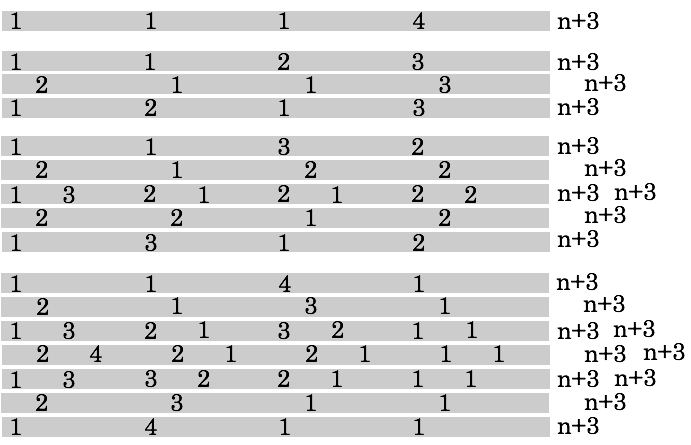
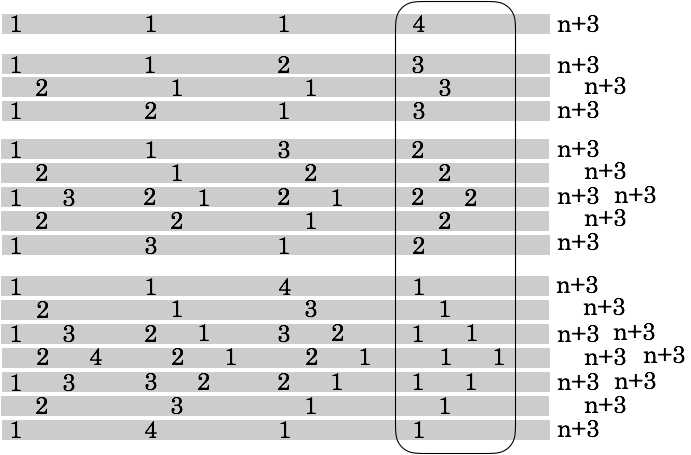
continuing App Thetrahedral

diff --git a/AppTetrahedral.tex b/AppTetrahedral.tex
@@ -1,28 +1,51 @@
 %version of 02-28-20
 
-\chapter{The hidden ordering of numbers}
+\chapter{The hidden beauty of numbers}
 \label{Appendix:Tetra}
 
 Our objective here is to develop the reasoning which leads to a proof...
 
-\section{Revisiting tirangular numbers}
+\section{Revisiting triangular numbers}
+
+The $n$ triangular number is equal to the sum of the $n$th first integers.
+It is denoted by $\Delta_n$.
+
+$\Delta_n =  \sum_{k=1}^{n} k$
+
+We proved in chapter~\ref{ch:Summation} the expression of $\Delta_n$ by two methods.
+\begin{itemize}
+\item the trick of Gauss that evidences an invariant (the sum of the $k$th term plus the $n-k+1$th one
+is equal to $n+1$. 
+\item using the Fubini's double counting principle, the $k$th term is represented by $k$ tokens.
+Putting two collections of tokens organized as triangles leads to a rectangle whose surface is equal to $n.(n+1)$.
+\end{itemize}
+We present below a figure that is an intermediate between both methods and that will serve as the basic principle for further investigations.
+Like for Gauss' trick, the sum of each row is an invariant (see the last column of Fig.~\ref{fig:Tetrahedral2}). 
 
 \begin{figure}[h]
 \begin{center}
         \includegraphics[scale=0.4]{FiguresArithmetic/appTetrahedral2}
-        \caption{Computing $\Theta_n$: basic triangle pattern.}
+        \caption{Computing $\Delta_n$: two copies of a basic triangle pattern.}
         \label{fig:Tetrahedral2}
 \end{center}
 \end{figure}
+$\Delta_n =  \sum_{k=1}^{n} k = \frac{1}{2}n.(n+1)$
+
 
 \section{Tetrahedral numbers}
 \label{sec:tetraedralNumbers}
 
-Prove the following expression
+We want here to compute:
+
+$\Theta_n =  \sum_{k=1}^{n} \Delta_k$
+\medskip
+
+A first method is to replace the $\Delta_k$ by their values $\frac{n.(n+1)}{2}$ and to determine the expression
+by arithmetic manipulations.
+We left this task to the readers, the expression is:
 
 $\Theta_n =  \sum_{k=1}^{n} \Delta_k = \frac{n.(n+1).(n+2)}{6}$
 \medskip
-
 
 This result can easily been proved by recurrence, we let the reader develop it. 
 We suggest to use the double counting Fubini's principle.
@@ -30,18 +53,26 @@ We suggest to use the double counting Fubini's principle.
 Following this way, you should write the previous expression of the tetrahedral number in a developed form 
 using a triangle shape as shown in Fig.~\ref{fig:Tetrahedral2}.
 
-and draw two copies by rotating the dimensions.
+draw two copies by rotating the dimensions.
 
 Fubini's principle is used by summing up the successive rows.
 
 Prove as an intermediate result that the sum of the elements over the rows of the three triangles is proportional to $n+2$.
 \medskip
 
-\noindent \textit{The detailed solution.}
-We proved the expression of $\Delta_n$ by mirroring the developed expression and adding term by term.
-Similarly, a way to prove the expression of $\Theta_n$ is to consider three copies and organize them 
-in order to obtain the expected result.
-A tetrahedral number can be arranged as a triangle (see Fig.~\ref{fig:TetrahedralBasic}).
+\noindent \fbox{
+\begin{minipage}{0.96\textwidth}
+{\bf Explanatory note}.
+
+to be completed
+\end{minipage}
+}
+\medskip
+
+We will extend the previous construction to prove the expression of $\Theta_n$.
+The idea is to consider three copies and organize them in order to obtain the expected result.
+
+A tetrahedral number is the sum of triangular numbers, and thus, it can be arranged as a triangle (see Fig.~\ref{fig:Tetrahedral3}).
 %\begin{figure}[h]
 %\begin{center}
 %        \includegraphics[scale=0.5]{FiguresArithmetic/TetrahedralBasic}
@@ -50,15 +81,14 @@ A tetrahedral number can be arranged as a triangle (see Fig.~\ref{fig:Tetrahedra
 %\end{center}
 %\end{figure}
 
-The proof is obtained by the double counting principle by rotating the three faces of triangles as shown in Fig.~\ref{fig:Tetrahedral}.
+The proof is obtained by the double counting principle by rotating the three faces of triangles as shown in Fig.~\ref{fig:Tetrahedral1}.
 \begin{figure}[h]
 \begin{center}
-        \includegraphics[scale=0.3]{FiguresArithmetic/appTetrahedral3}
-        \caption{Computing $\Theta_n$: basic triangle pattern.}
+        \includegraphics[scale=0.4]{FiguresArithmetic/appTetrahedral3}
+        \caption{Basic pattern for computing $\Theta_n$ (for $n=4$).}
         \label{fig:Tetrahedral3}
 \end{center}
 \end{figure}
-
 \begin{figure}[h]
 \begin{center}
         \includegraphics[scale=0.3]{FiguresArithmetic/appTetrahedral1}
@@ -66,7 +96,6 @@ The proof is obtained by the double counting principle by rotating the three fac
         \label{fig:Tetrahedral1}
 \end{center}
 \end{figure}
-
 
 Sum up all the numbers in each row.
 
@@ -81,52 +110,71 @@ Let us sum up the elements in row $k$:
 $\Delta_k + \Delta_k + k(n-k+1)  = k(k+1) + kn-k^2+k = k(n+2)$.
 \end{itemize}
 
-Conclusion:
-the global sum is equal to $n+2$ times $(1+2+...+n)$.
 
-Finally, $3 \Theta_n = (n+2) \Delta_n$.
-\medskip
-
-\noindent \textit{Going further.}
-
-Summary: we proved the following results:
-\begin{itemize}
-\item $Id_n = 1+1+ ... +1 = n$
-\item $\Delta_n = 1+2+3+ ... +n = \frac{1}{2}.Id_n.(n+1)$
-\item $\Theta_n = \Delta_1 + \Delta_2 + ... + \Delta_n = \frac{1}{3} .\Delta_n.(n+2)$
-\end{itemize}
-
-
-\section{Pentahedral numbers}
-
-A natural question is if we can go further following the same pattern for computing 
-$ \sum_{k=1}^{n} \Theta_k$, and so on.
-
+$= \frac{1}{4}.\Theta_n.(n+3)$
 \begin{figure}[h]
 \begin{center}
-        \includegraphics[scale=0.3]{FiguresArithmetic/appTetrahedral4}
+        \includegraphics[scale=0.32]{FiguresArithmetic/appTetrahedral4}
         \caption{Computing $\Theta_n$: basic triangle pattern.}
         \label{fig:Tetrahedral4}
 \end{center}
 \end{figure}
+The global sum is equal to $n+2$ times $(1+2+...+n)$.
 
-\begin{figure}[h]
-\begin{center}
-        \includegraphics[scale=0.4]{FiguresArithmetic/appTetrahedral5}
-        \caption{Computing $\Theta_n$: basic triangle pattern.}
-        \label{fig:Tetrahedral5}
-\end{center}
-\end{figure}
+Finally, $3 \Theta_n = (n+2) \Delta_n$
+\medskip
+
+\noindent \textit{Summary:} we proved the following results:
+\begin{itemize}
+\item $Id_n = 1+1+ ... +1 = n$
+\item $\Delta_n = 1+2+3+ ... +n = \frac{1}{2}.Id_n.(n+1) = = \frac{n.(n+1)}{2}$
+\item $\Theta_n = \Delta_1 + \Delta_2 + ... + \Delta_n = \frac{1}{3} .\Delta_n.(n+2) = \frac{1}{3}.\Delta_n.(n+2) = \frac{n.(n+1).(n+2)}{3!}$
+\end{itemize}
+
+
+\section{$\oplus$ Pentahedral numbers}
+
+As the previous results show some regularities, a natural question is: \textit{can we go further following the same pattern for computing 
+$ \sum_{k=1}^{n} \Theta_k$, and so on?}
+
+Looking at the successive expressions, the expectation is ...
+
+$\Pi_n = \Theta_1 + \Theta_2 + ... + \Theta_n = \frac{1}{5}.\Theta_n.(n+4) = \frac{1}{4} n.(n+1).(n+2).(n+3)$
 
 \begin{figure}[h]
 \begin{center}
         \includegraphics[scale=0.35]{FiguresArithmetic/appTetrahedral6}
-        \caption{Computing $\Theta_n$: basic triangle pattern.}
+        \caption{Computing $\Pi_n$: basic triangle pattern.}
         \label{fig:Tetrahedral6}
 \end{center}
 \end{figure}
+\begin{figure}[h]
+\begin{center}
+        \includegraphics[scale=0.36]{FiguresArithmetic/appTetrahedral7}
+        \caption{Computing $\Pi_n$: basic triangle pattern.}
+        \label{fig:Tetrahedral7}
+\end{center}
+\end{figure}
 
-Are you able to consider the challenge?
+Finally
+
+\begin{figure}[h]
+\begin{center}
+        \includegraphics[scale=0.36]{FiguresArithmetic/appTetrahedral5}
+        \caption{Add the last first $\Theta_n$ and sum up the rows and then, the last columns.}
+        \label{fig:Tetrahedral5}
+\end{center}
+\end{figure}
+
+
+\subsection{Going further}
+
+Are you able to consider the challenge of going one step further?
+
+We expect the sum of pentahedral numbers to be equal to:
+
+$\frac{1}{5}.\Pi_n.(n+4) = \frac{n.(n+1).(n+2).(n+3).(n+4)}{5!}$
+
 
 
 

diff --git a/AppFIBO-Enrichment.tex b/AppFIBO-Enrichment.tex
@@ -225,7 +225,6 @@ where \ \ $k_1 \ \gg \ k_2 \ \gg \cdots \gg \ k_\ell \ \geq \ 2$.
 The injunction against employing $F(1)$ in a representation is no real restriction because under this section's convention for the indices of Fibonacci numbers, $F(1)=F(2)$.
 \end{minipage}
 }
-
 \bigskip
 
 \index{Zeckendorf representation}
